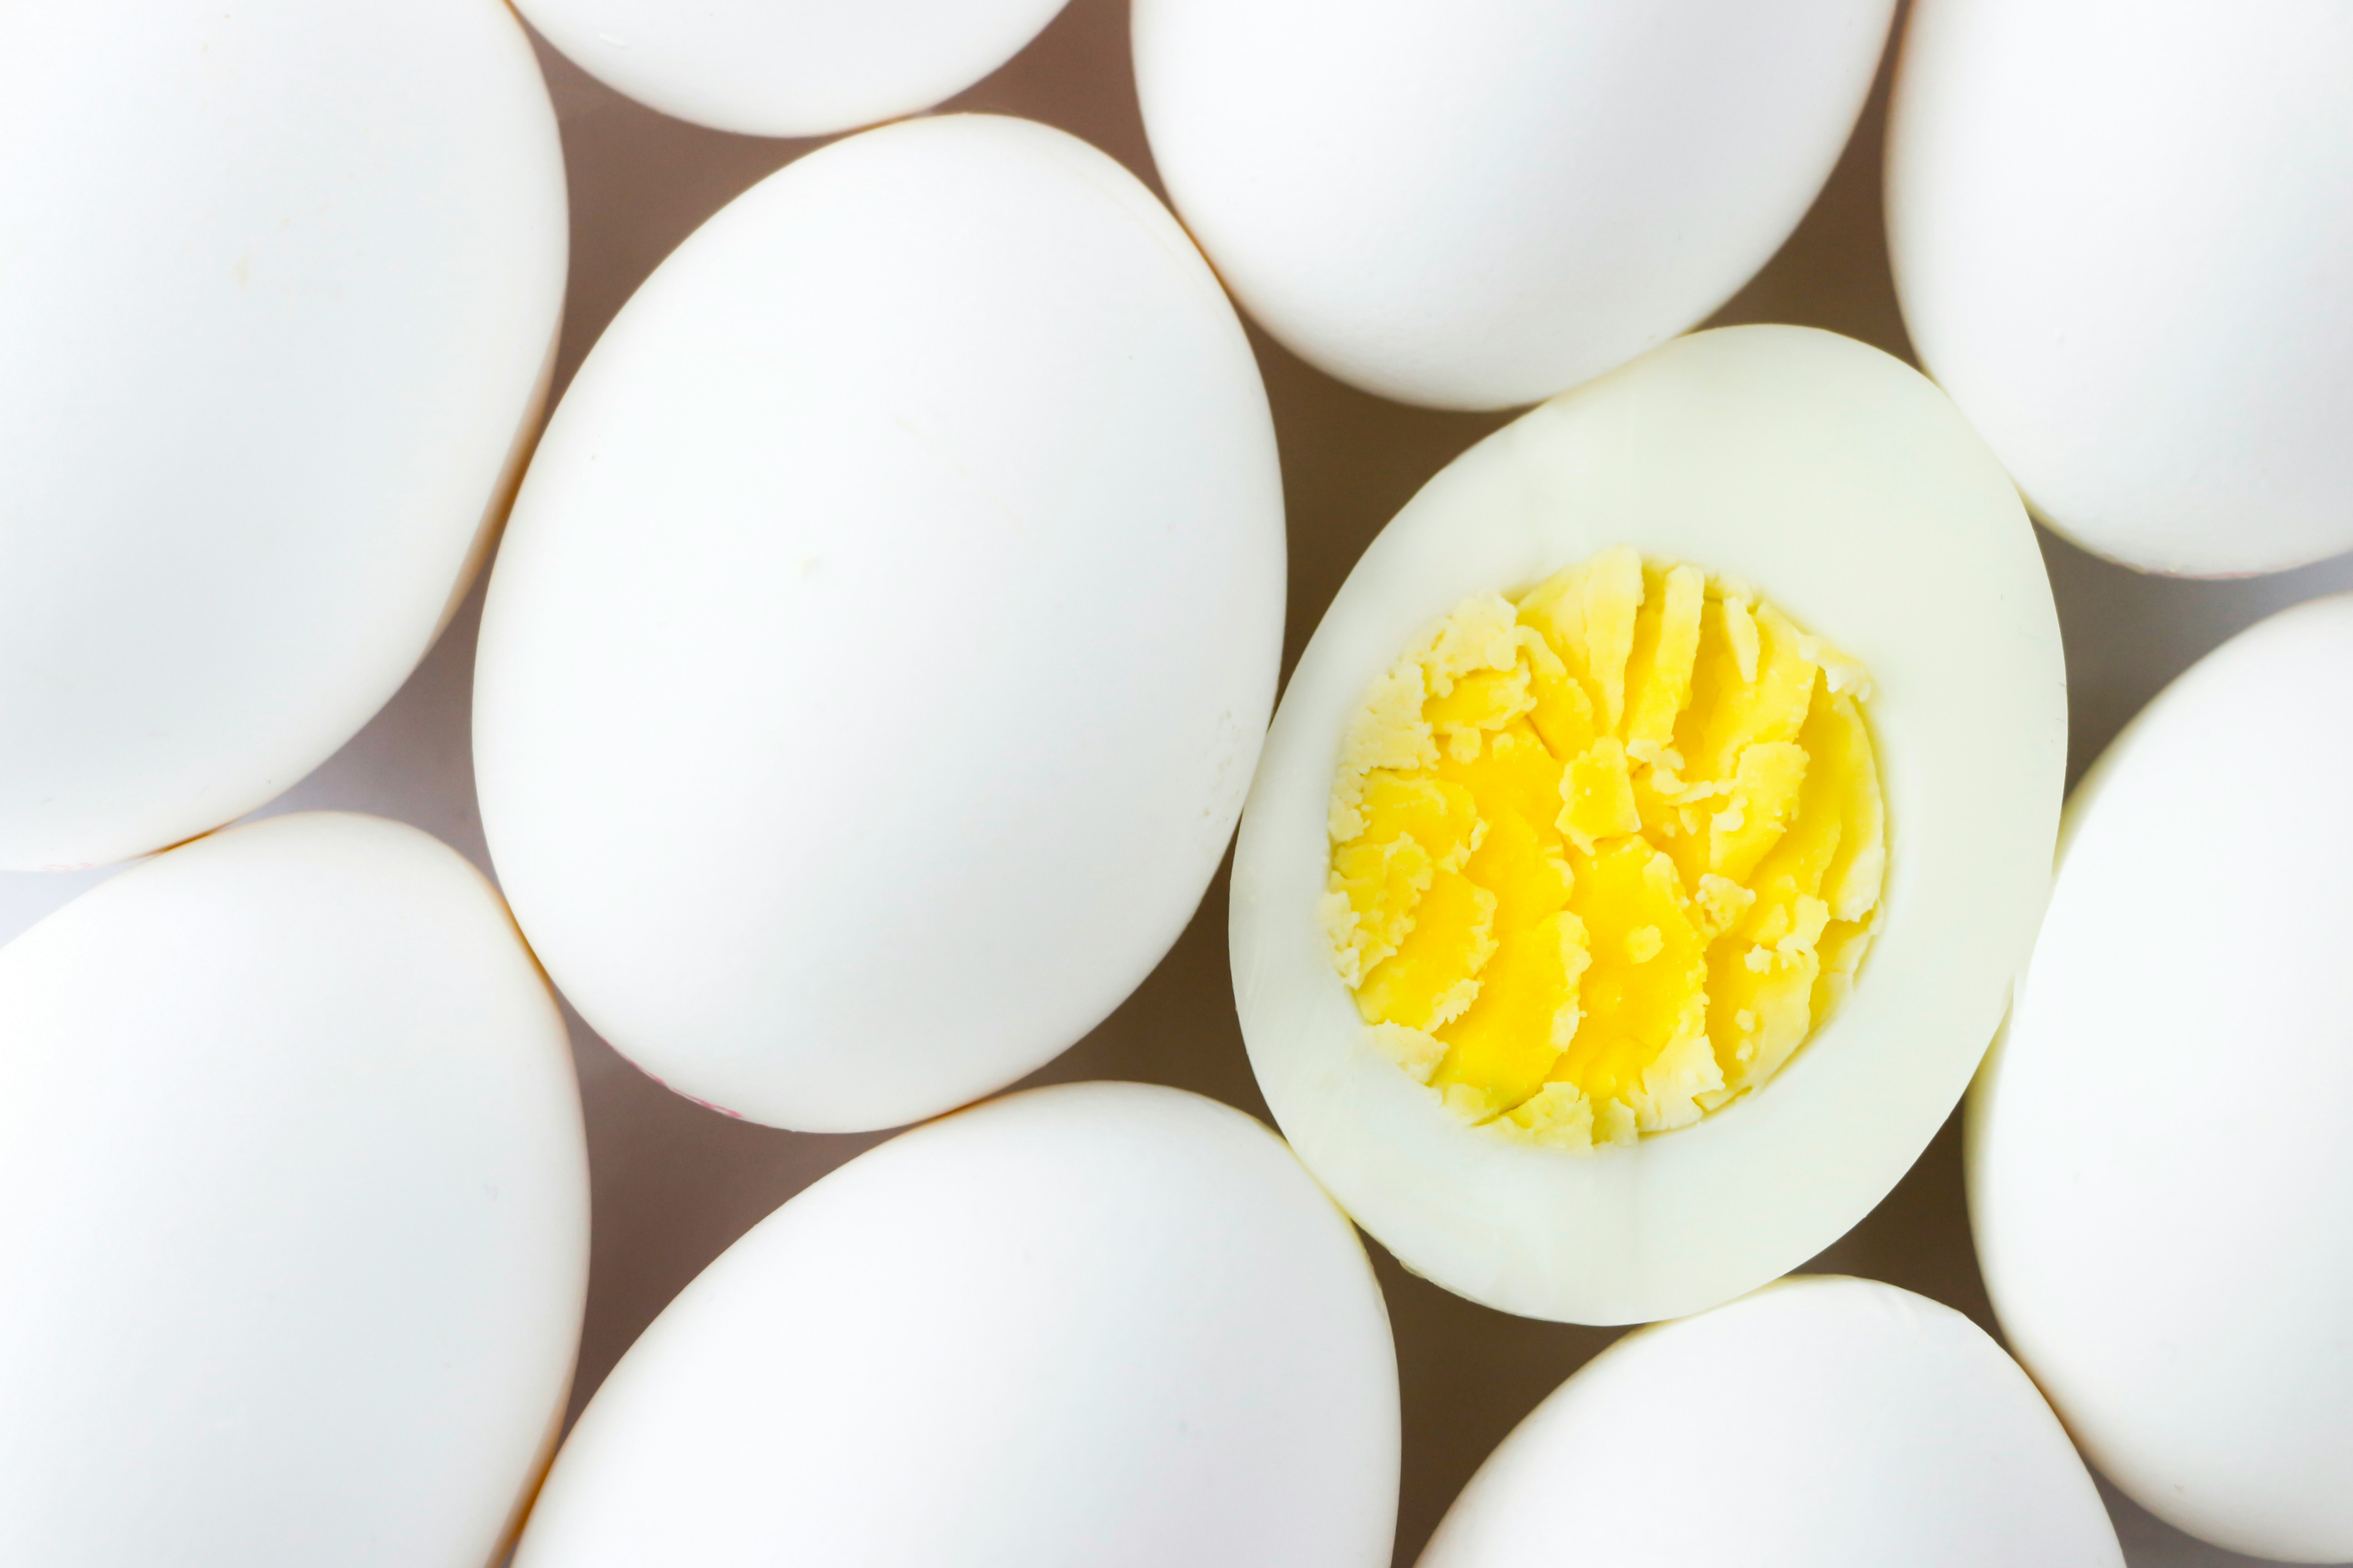
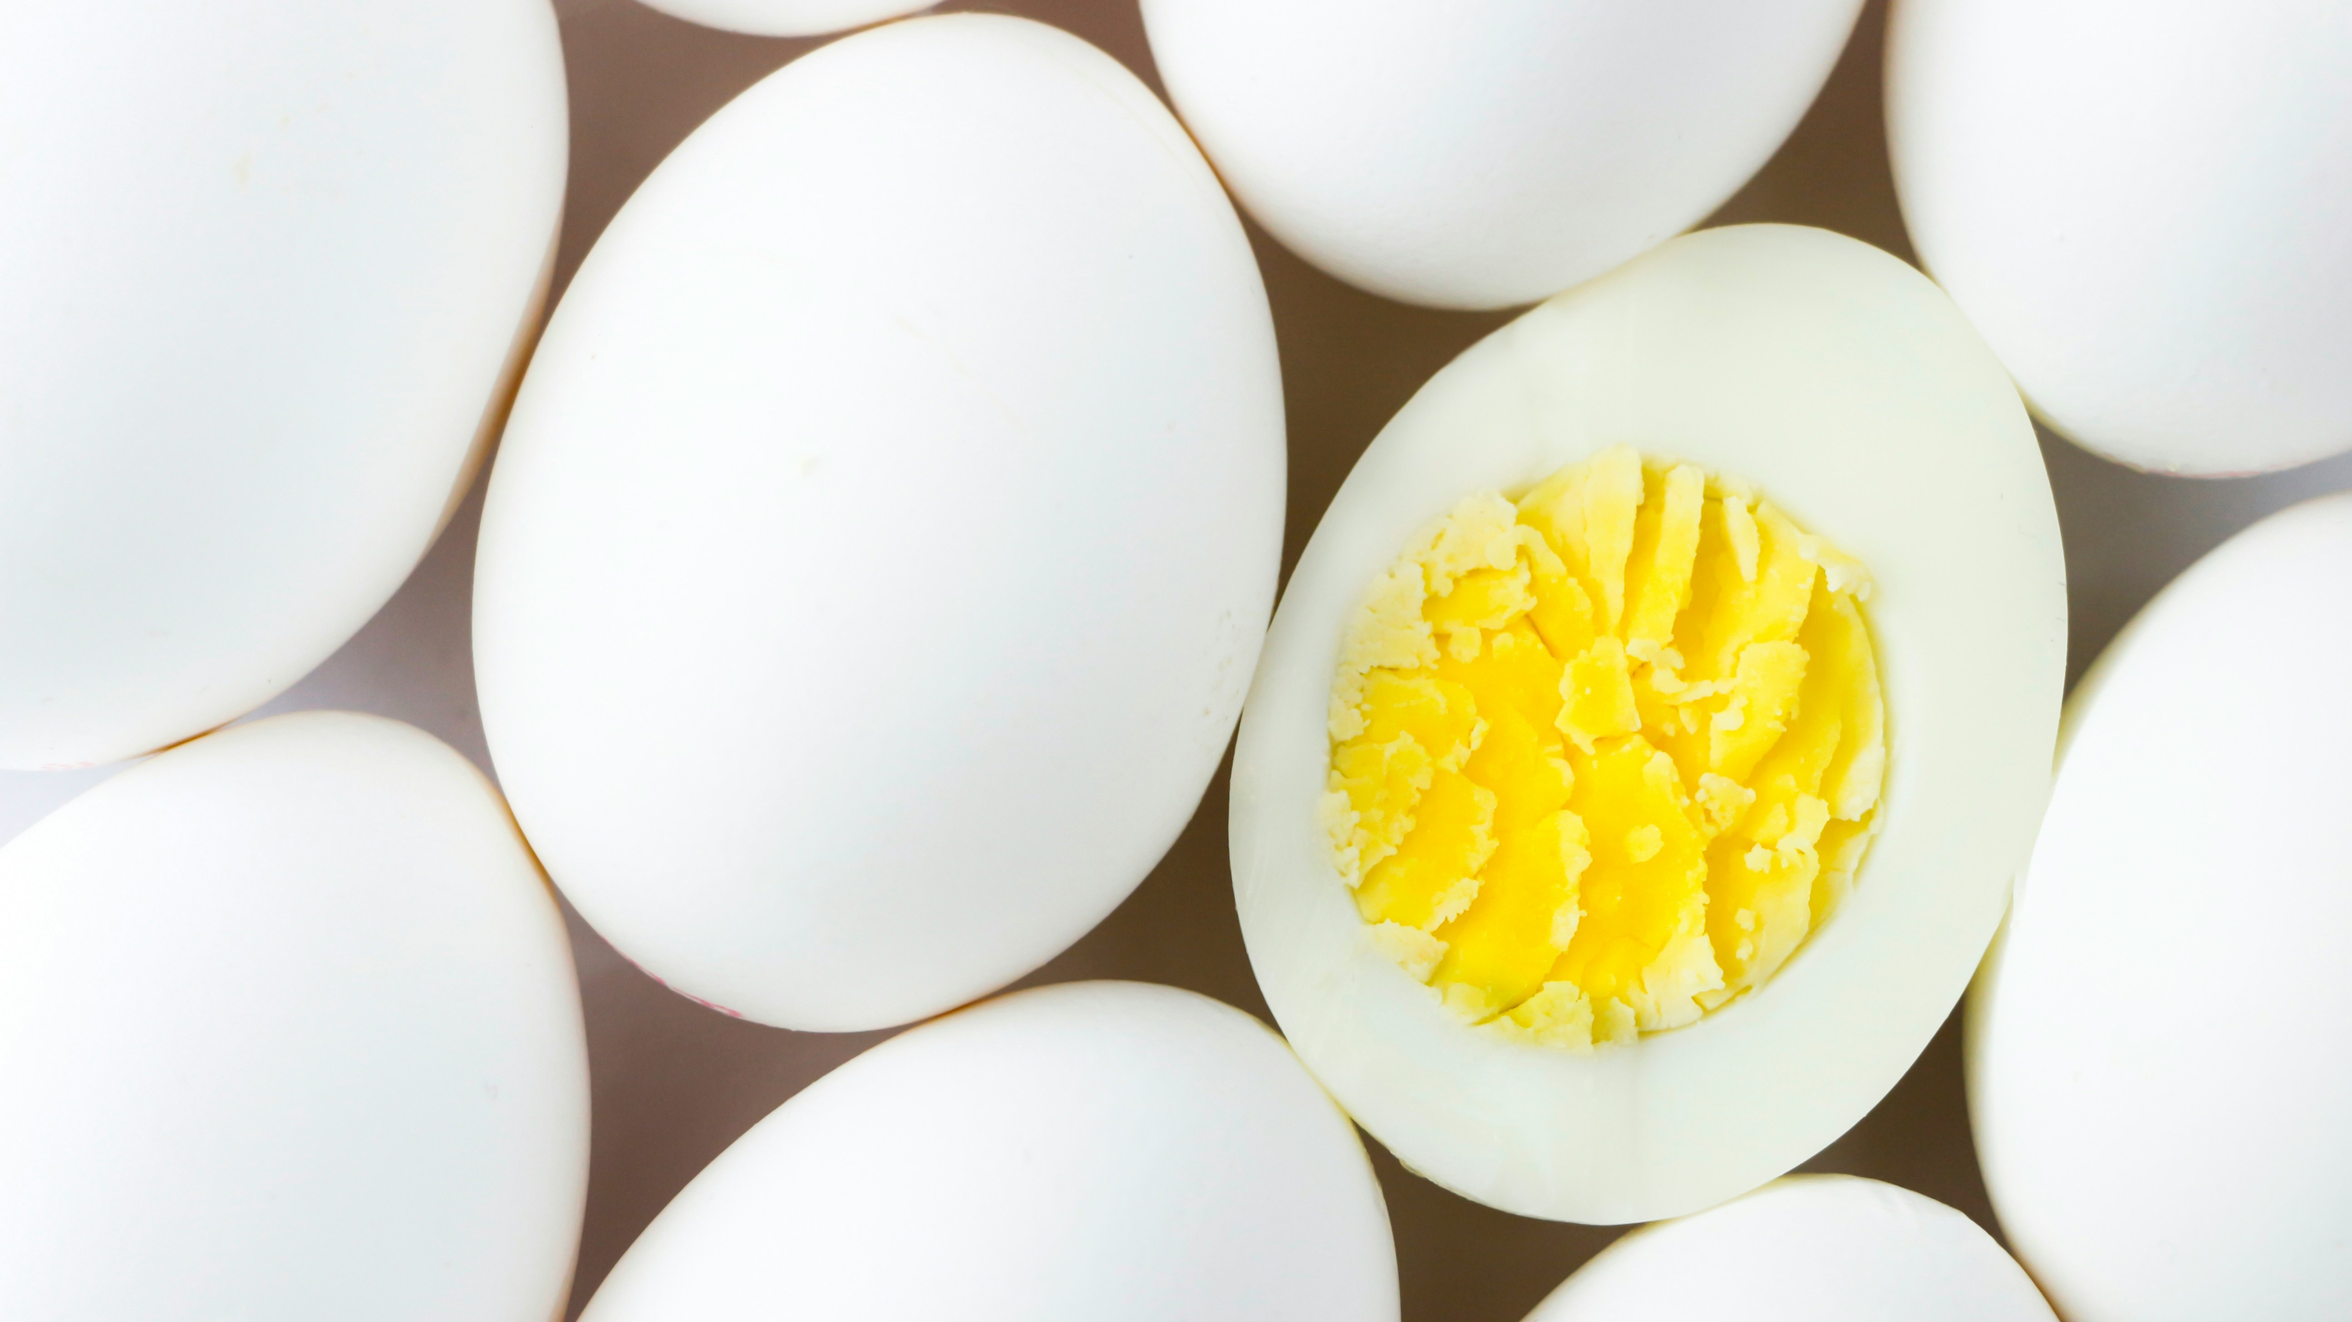
fix: :bento: resize assets to constant size, improving performance

diff --git a/style.css b/style.css
@@ -14,8 +14,8 @@ img {
     border-radius: 2%;
     border-color: rgb(122, 110, 110);
     border-style: solid;
+    height: 360px;
     width: 640px;
-    height: auto;
 }
 
 a {
